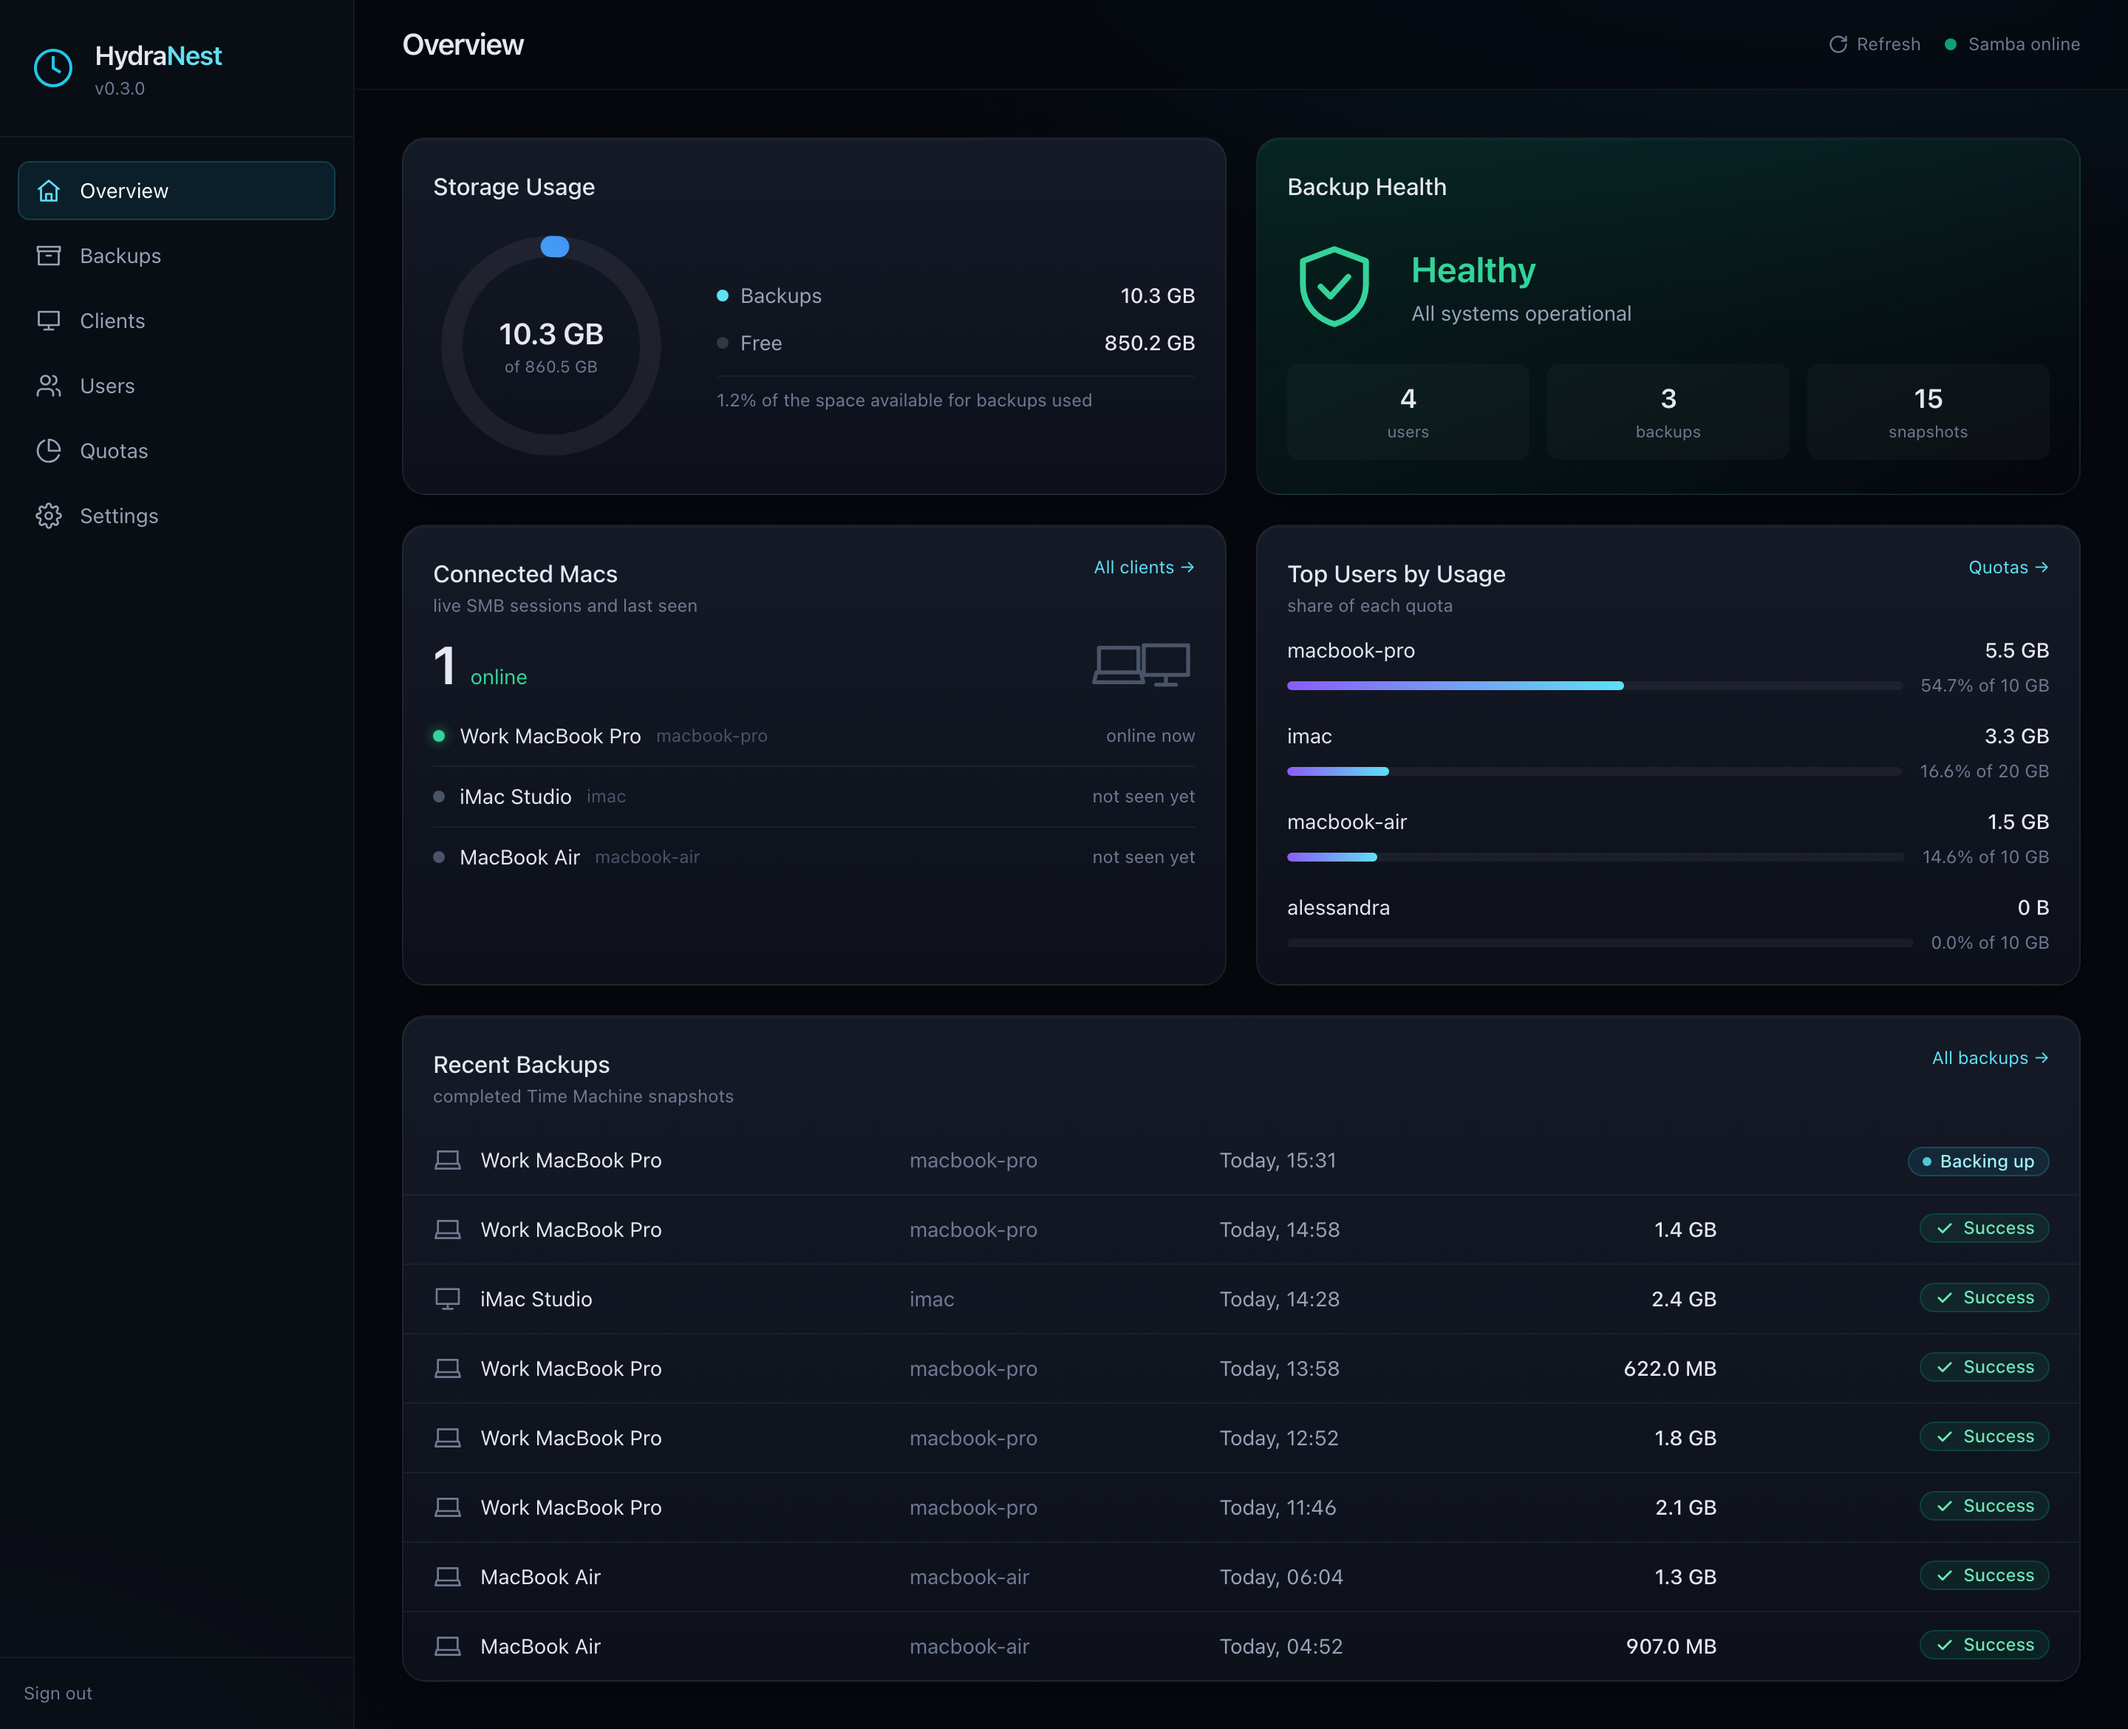
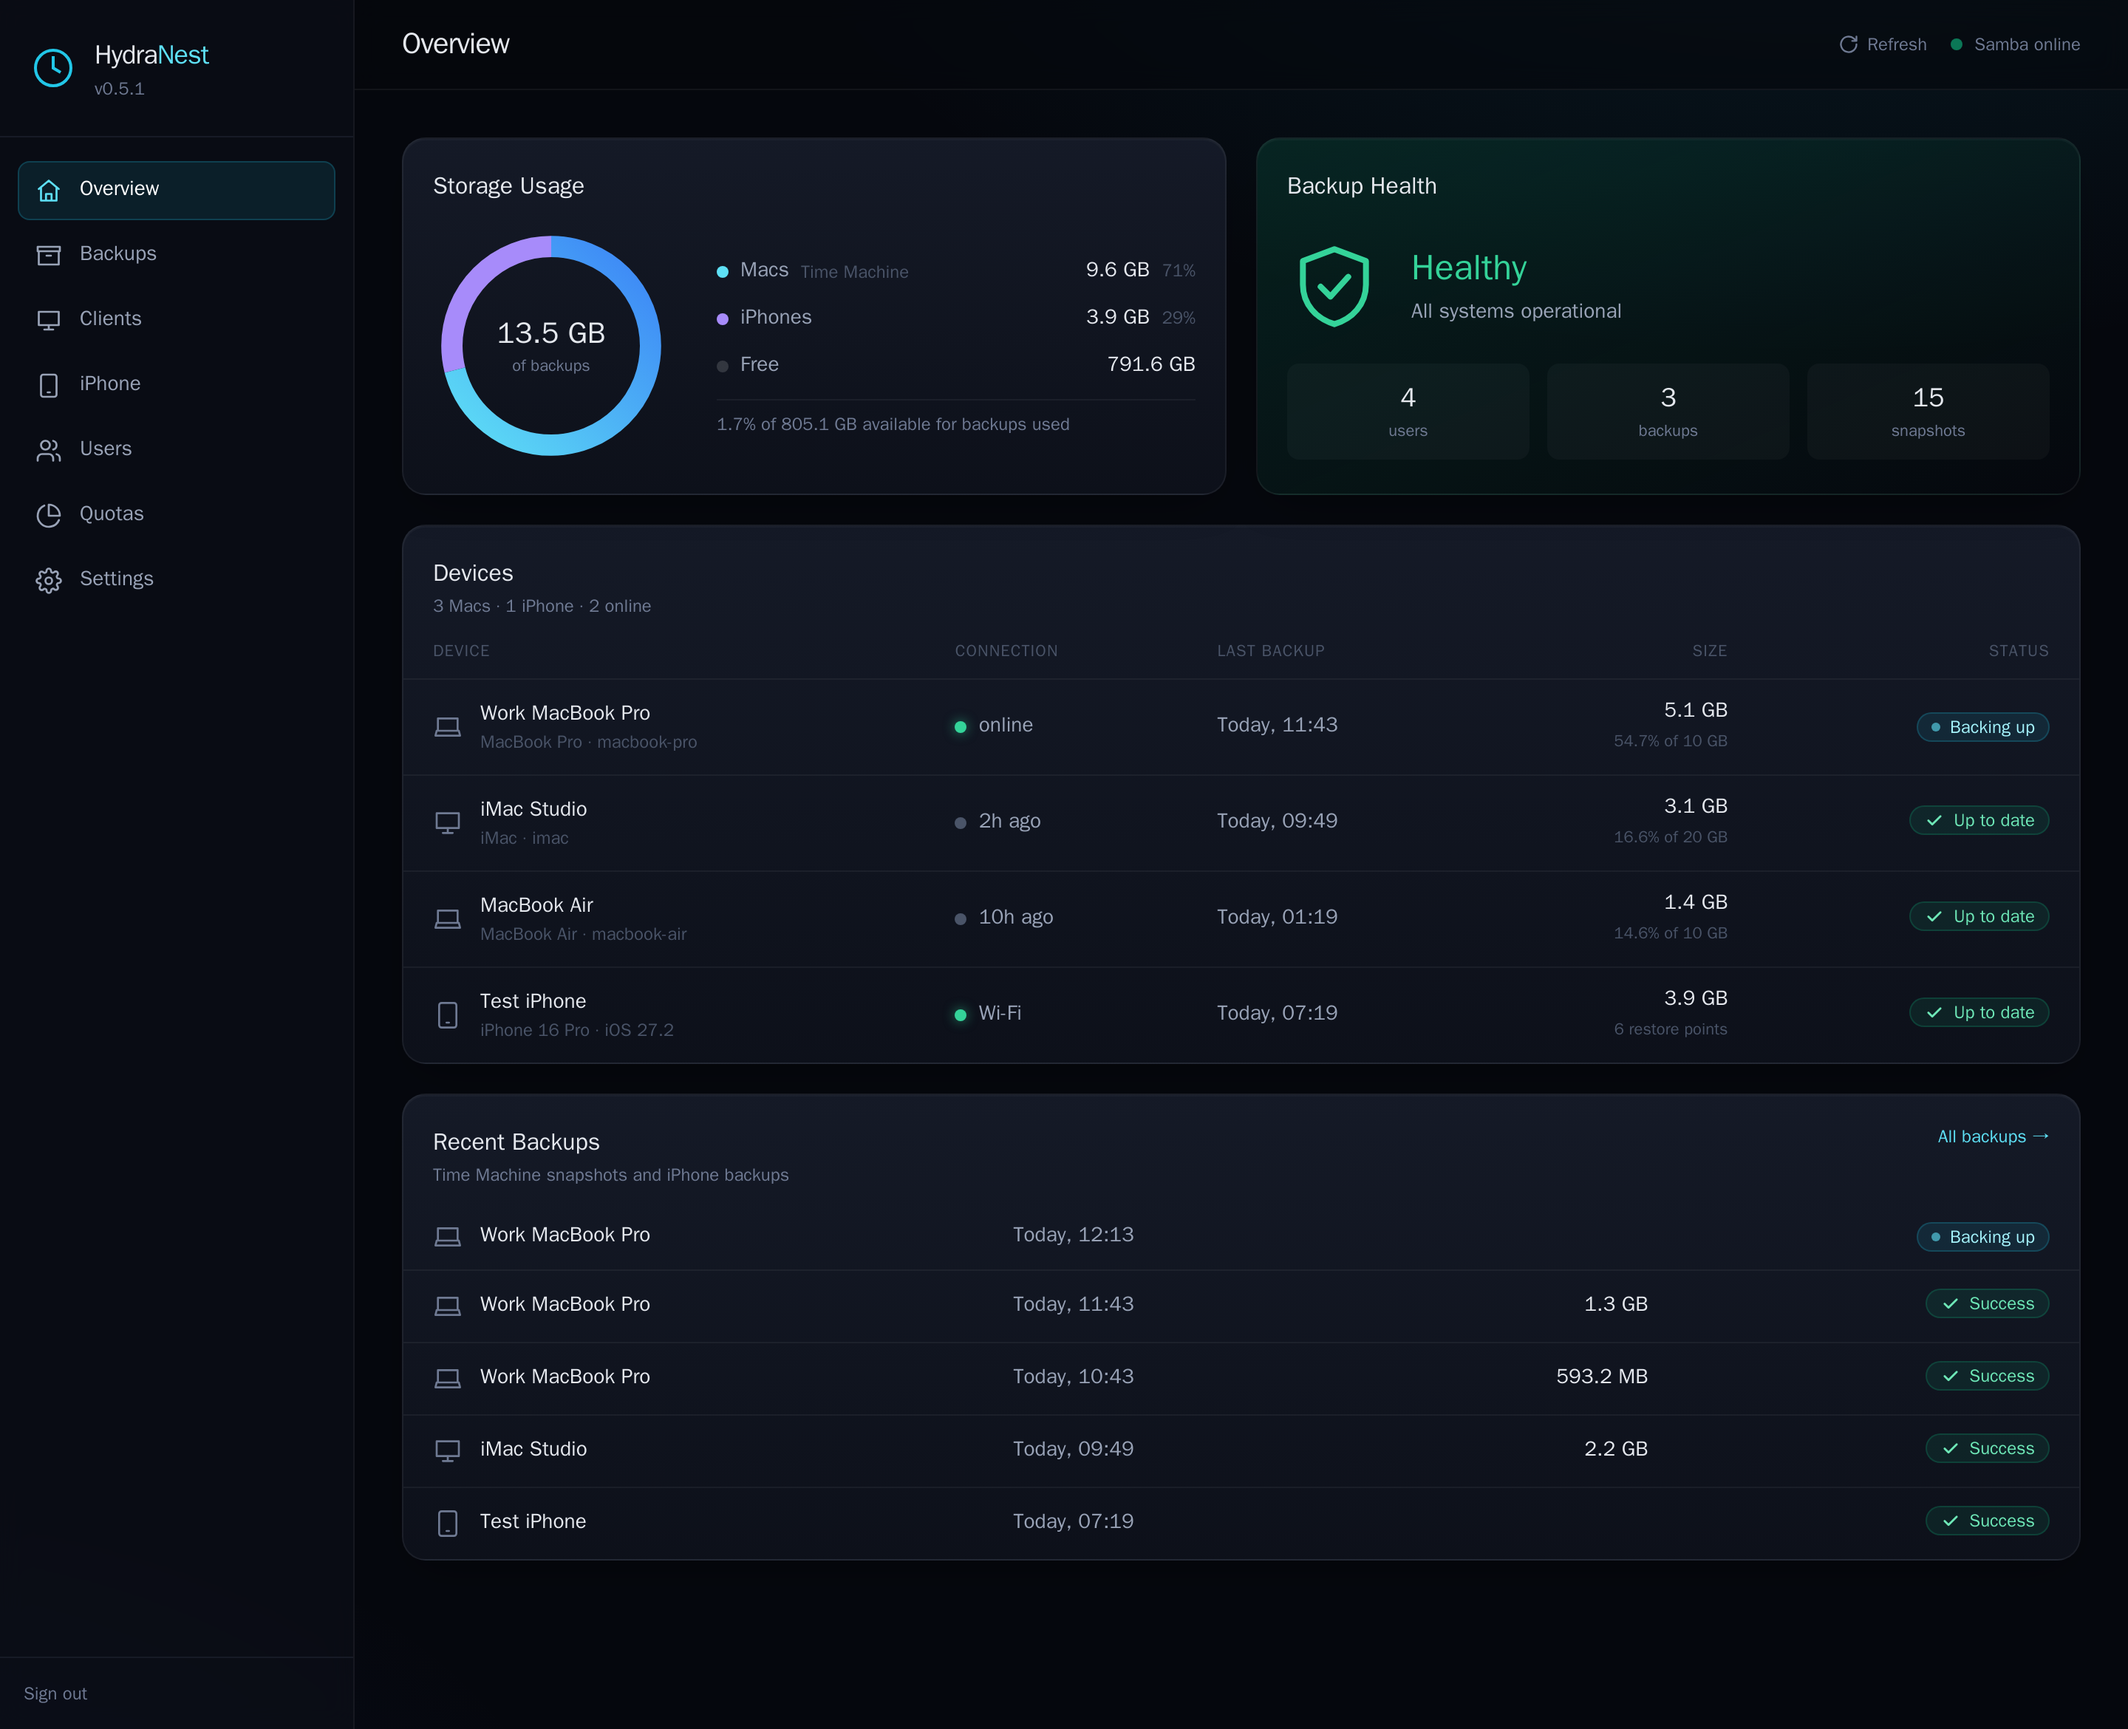
docs: screenshots with made-up devices only
Overview (now the v0.5.1 layout with an iPhone), Users, the user edit popover
and Quotas are re-rendered with test names (macbook-pro, imac, macbook-air,
mac-mini, Test iPhone).

diff --git a/README.md b/README.md
@@ -18,7 +18,7 @@ It fixes the Samba and user-management problems found when running it on
 Proxmox + Portainer. See [What the fork fixes](#what-the-fork-fixes) and the
 [CHANGELOG](CHANGELOG.md).
 
-<img src="docs/screenshots/02-overview.png" alt="HydraNest overview: storage usage, backup health, connected Macs, top users, recent backups" width="100%">
+<img src="docs/screenshots/02-overview.png" alt="HydraNest overview: storage split between Macs and iPhones, backup health, devices, recent backups" width="100%">
 
 ---
 
